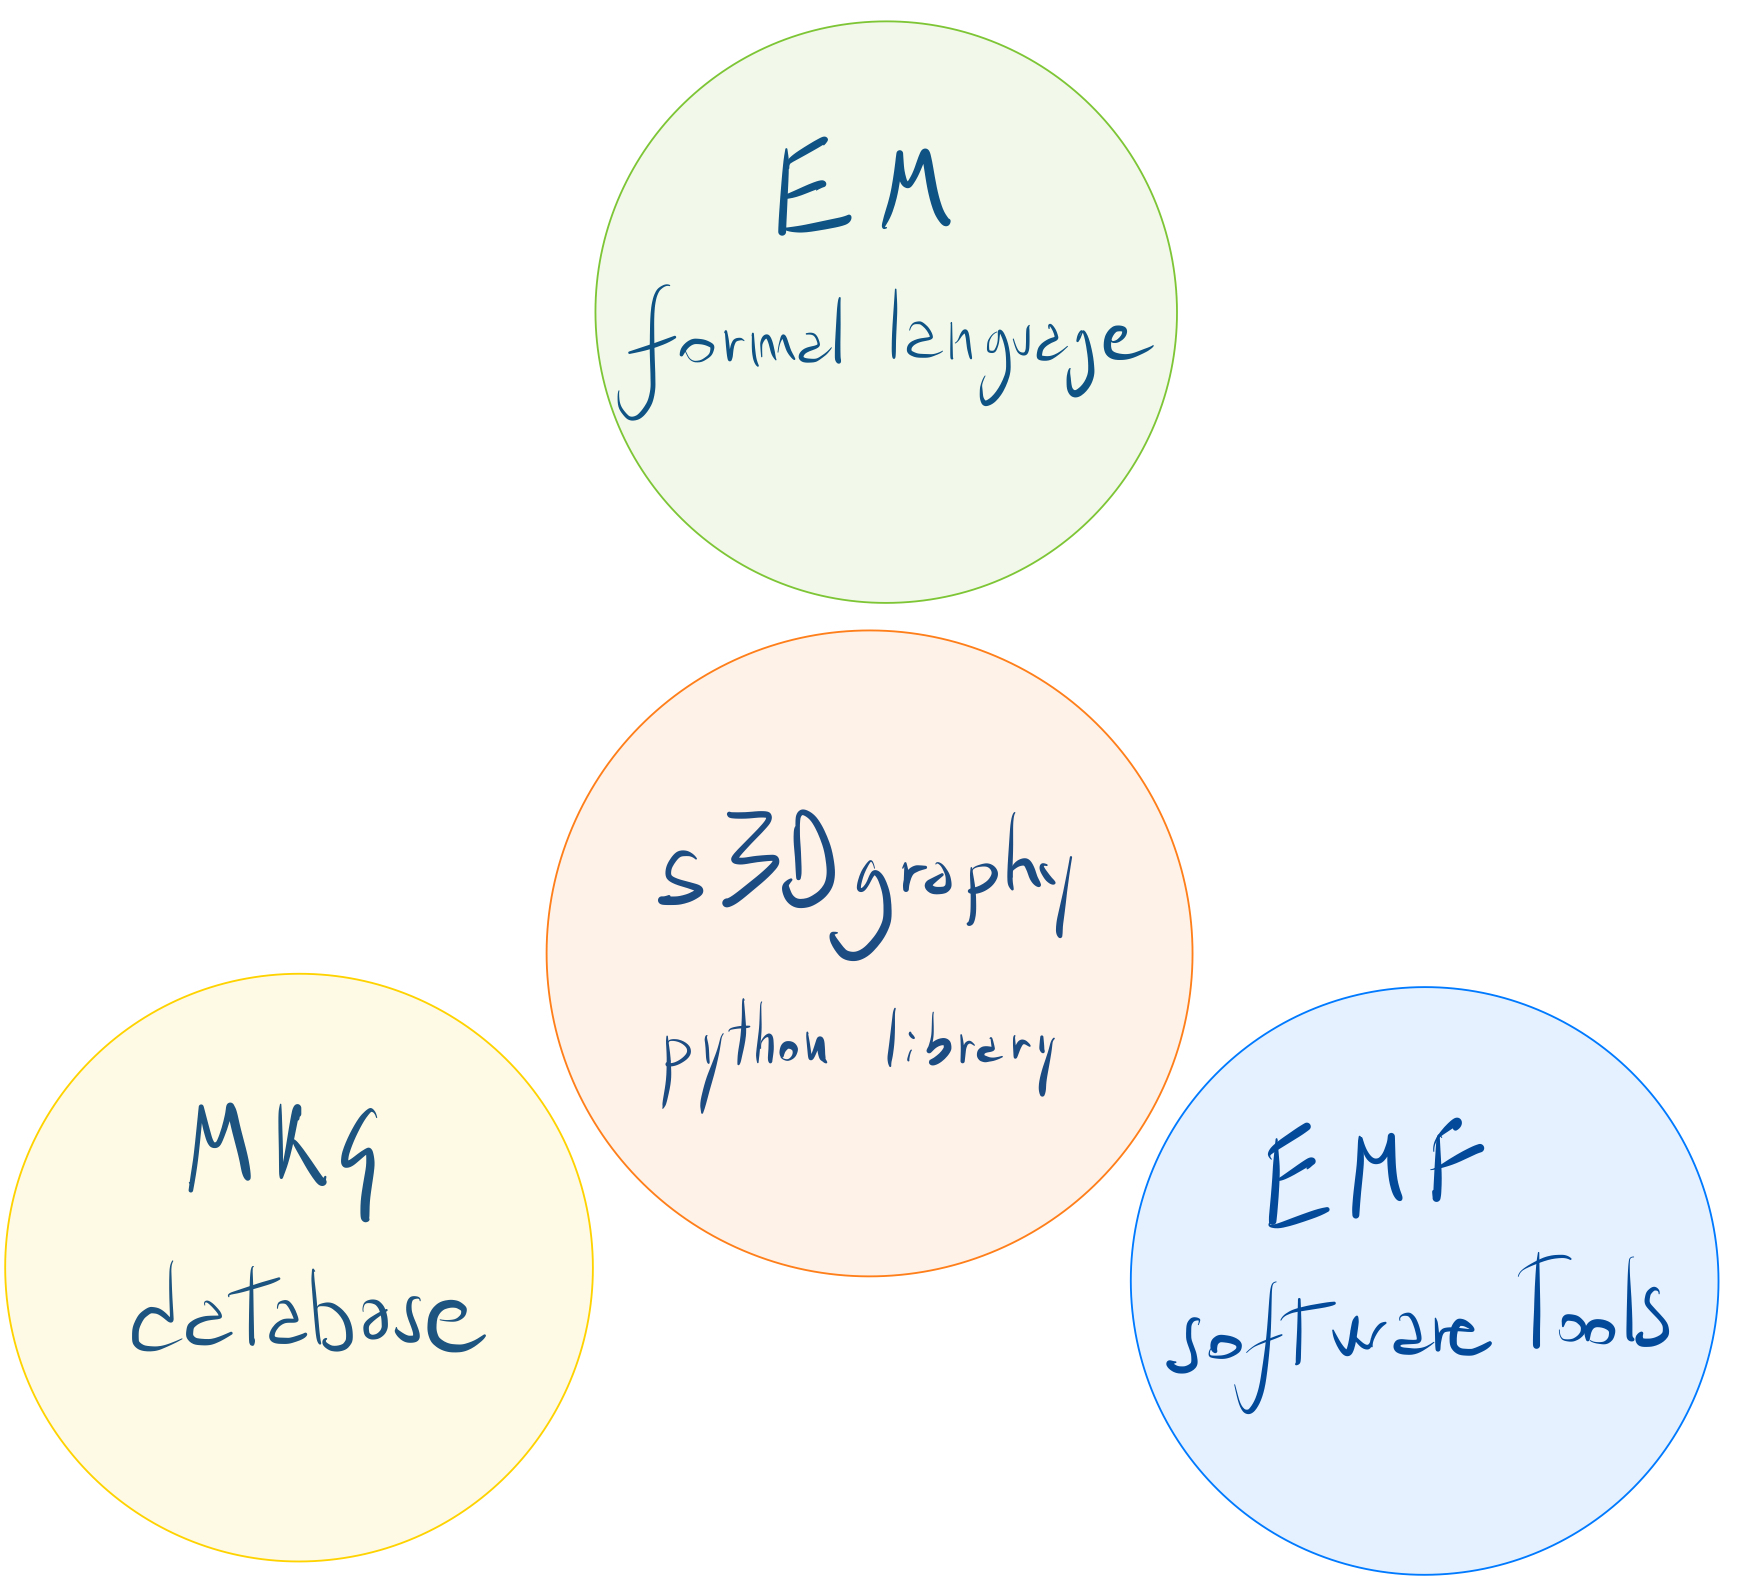
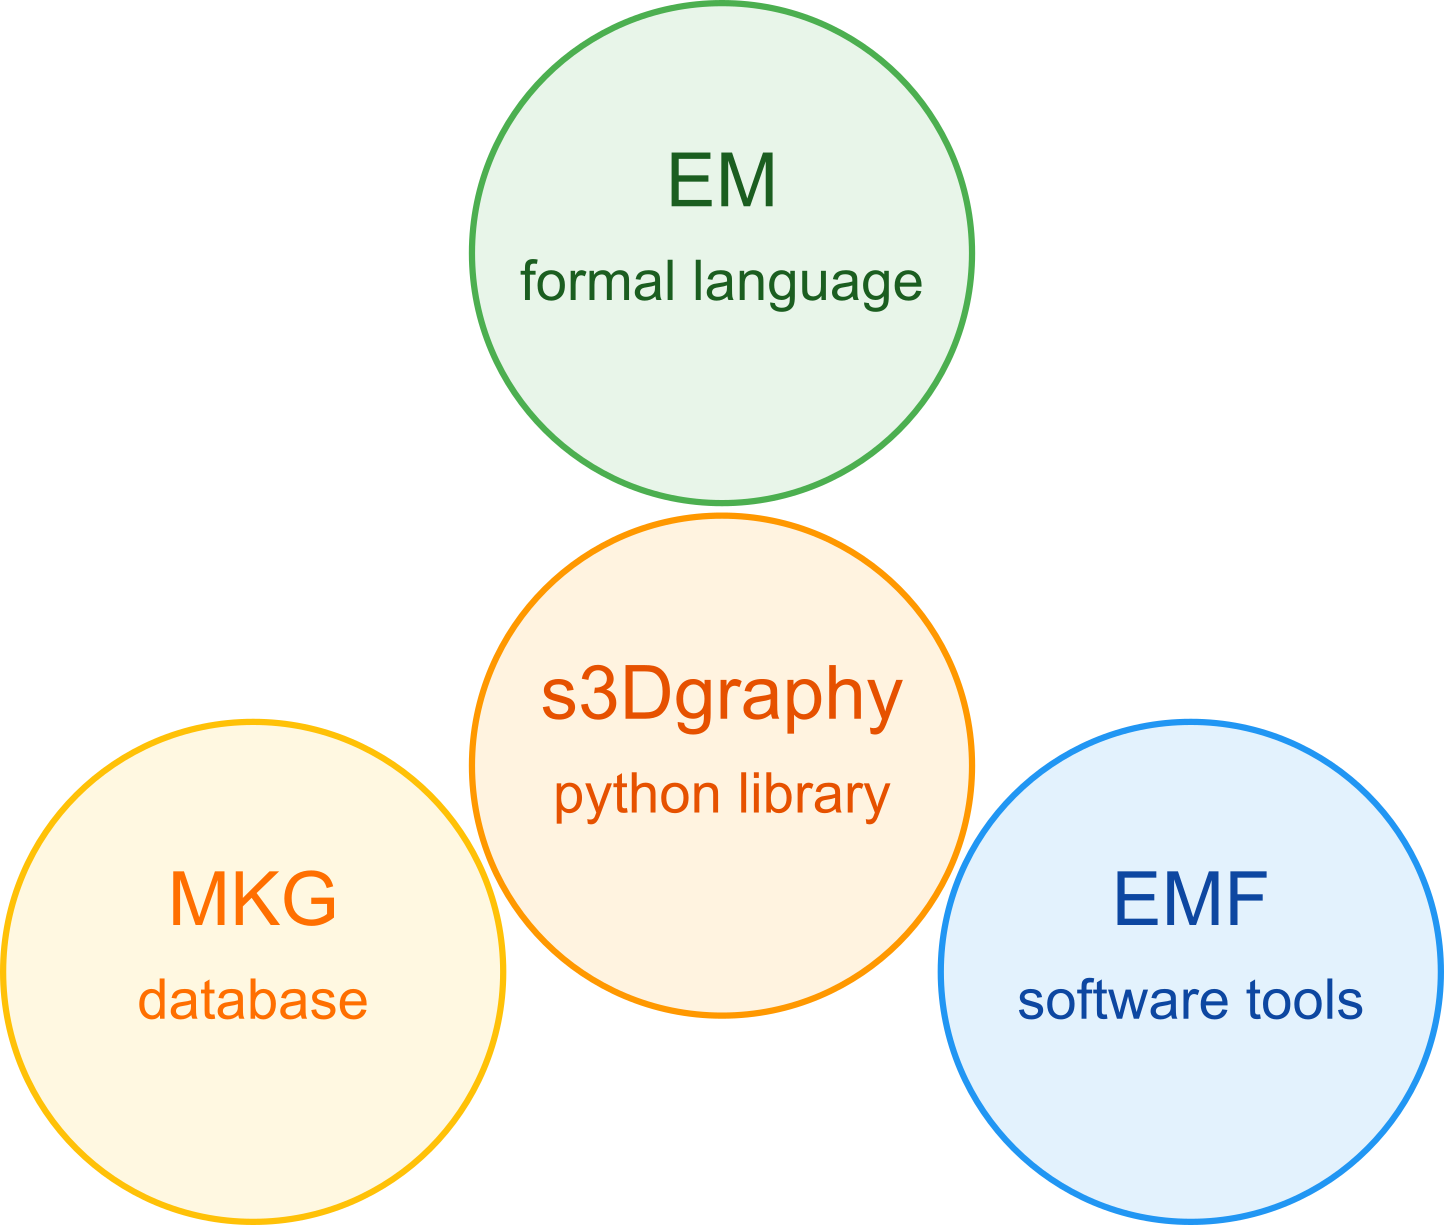
update

diff --git a/docs/learn_EM.rst b/docs/learn_EM.rst
@@ -7,27 +7,27 @@ Bare in mind that the path to learn and use EM depends on your scope and your ba
 1. EM formal language (for smart humanists)
 -------------------------------------------
 
-You can just use EM to document your studies and your reconstructions: it is reccommended to learn at least the EM language (that can be done even with a pencil and a sheet of paper) as it is explained in this manual.
+You can just use EM to document your studies and your reconstructions: it is reccommended to learn at least the EM language (that can be done even with a pencil and a sheet of paper) as it is explained in the following sections onf this documentation.
 
-2. Annotate stratigraphy on 3D models (for jedi-humanists)
+1. Annotate stratigraphy on 3D models (for jedi-humanists)
 ------------------------------------------------------------------------------------------------
 
-If you want to connect your documentation to 3D models, it is a good idea to learn also some of the tools from the Extended Matrix Framework (EMF), starting from the EMtools for Blender. You can find the documentation `here <https://docs.extendedmatrix.org/projects/EM-tools/en/latest/index.html>`_.
+If you want to connect your documentation to 3D models, it is a good idea to learn also some of the tools from the Extended Matrix Framework (EMF), starting from the EMtools for Blender. `You can find the documentation here <https://docs.extendedmatrix.org/projects/EM-tools/en/latest/index.html>`_.
 
 .. note::
 
    Tipically users can work in team splitting the effort between two or more members (i.e. one drawing the EM, one modelling in Blender). 
 
-3. Prepare high-quality 3D models for EM workflows
+3. Prepare high-quality 3D models for EM workflows (not for the faint of heart!)
 --------------------------------------------------
 
-To enhance your 3D survey quality, including model accuracy, survey process documentation, and metadata management, consider adopting the 3D Survey Collection suite (3DSC). This toolset integrates with Blender and Metashape, providing a comprehensive workflow for archaeological 3D documentation. The complete documentation is available `here <https://docs.extendedmatrix.org/projects/3DSC/en/latest/>`_.
+To enhance your 3D survey quality, including model accuracy, survey process documentation, and metadata management, consider adopting the 3D Survey Collection suite (3DSC). This toolset integrates with Blender and Metashape (Reality Capture in progress), providing a comprehensive workflow for archaeological 3D documentation. `The complete documentation is available here <https://docs.extendedmatrix.org/projects/3DSC/en/latest/>`_.
 
 .. note::
 
-   The access to high visual quality models (using even modest computers) like the ones that you can create with 3DSC are very important to be able to annotate stratigraphic documentation directly on 3D and connect it to your database.
+   High-quality 3D models, accessible even on modest computers through tools like 3DSC, are essential for effective stratigraphic documentation. These models enable direct 3D annotation and seamless connection to your database.
 
-4. If you want to customize EM for your workflow
+4. If you want to customize EM for your workflow (join the bright side of the force!)
 ------------------------------------------------
 
 * contributing to add some features you can start learning python for Blender `here <https://www.youtube.com/watch?v=rKGNc6CQ2cg>`_ (in italian, with english subtitles) and asking to the EM community on Facebook or Telegram.

diff --git a/docs/index.rst b/docs/index.rst
@@ -1,7 +1,7 @@
 Extended Matrix documentation
 =============================
 
-**Extended Matrix** is a formal language with which to keep track of virtual reconstruction processes. It is intended to be used by archaeologists and heritage specialists to document in a robust way their scientific activities. The EM allows to record the sources used and the processes of analysis and synthesis that have led from scientific evidence to virtual reconstruction. It organises 3D archaeological record so that the 3D modelling steps are smoother, transparent and scientifically complete. Its development is leaded by E. Demetrescu at CNR-ISPC (Rome, former CNR-ITABC). EM is at its 1.4 version (a 1.5 version is currently under development).
+**Extended Matrix** is a formal language with which to document stratigraphy and virtual reconstruction processes. It is intended to be used by archaeologists and heritage specialists to keep track in a robust way of their scientific activities. The EM allows to record the sources used and the processes of analysis and synthesis that have led from scientific evidence to interpretation and reconstruction. It organises 3D archaeological record so that the 3D modelling steps are smoother, transparent and scientifically complete. Its development is leaded by E. Demetrescu at CNR-ISPC (Rome, former CNR-ITABC). EM is at its 1.4 version (a 1.5 version is currently under development).
 
 Extended Matrix structure
 -------------------------
@@ -14,7 +14,7 @@ The diagram shows the essential structure of Extended Matrix through its core co
    
    *Core components of Extended Matrix: Language, Framework and Knowledge Graph.*
 
-At the center, the s3Dgraphy Extended Matrix connects three fundamental elements: the Extended Matrix Language, which provides the formal notation system; the Extended Matrix Framework, which includes all necessary software tools; and the Multidimensional Knowledge Graph, which serves as the underlying graph database structure. These components work together to provide a comprehensive system for archaeological data management and interpretation.
+At the top is the Extended Matrix Language, which provides the formal notation system; the Extended Matrix Framework, which includes all necessary software tools; and the Multidimensional Knowledge Graph, which serves as the underlying graph database structure. These components work together to provide a comprehensive system for archaeological data management and interpretation. Their interconnection is ensured by the s3Dgraphy library (in the middle) that offers tools and rules to coherently read, write, manage, and convert the knowledge graph behind the EM.
 
 .. note::
 
